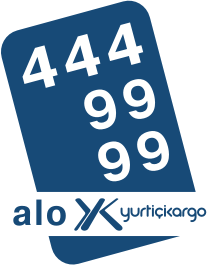
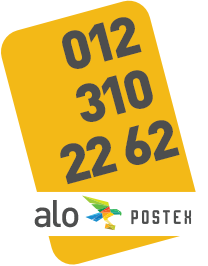
commit

diff --git a/resources/views/layouts/individual.blade.php b/resources/views/layouts/individual.blade.php
@@ -57,8 +57,8 @@
                     <div class="col-lg-9 col-md-10 col-sm-10 col-xs-2 col-lg-offset-1">
                         <div class="right-form">
                             <div class="contact-form">
-                                <a href="assets/login/Help.html">
-                                    <span>S.S.S.</span>
+                                <a >
+                                    <span>SUAL CAVAB</span>
                                 </a>
                             </div>
                                 <div class="member-info left-radius">
@@ -102,6 +102,10 @@
             <div id="page-content">
             <section class="middle-content">
             <!--Mobile Menu-->
+            
+            
+            
+            
             <nav>
               <div class="container-wrap">
                 <div class="container-wrap-content">
@@ -110,50 +114,47 @@
                     <div id="slidemenu" class="nav navbar-nav">
                       <ul class="depth-1">
                         <li>
-                          <a href="assets/login/index.html" class="title">Anasayfa</a>
+                          <a href="{{route('home')}}" class="title">Əsas səhifə</a>
                         </li>
                         <li>
-                          <a href="#" class="title">Gönderi İşlemleri</a>
+                          <a href="#" class="title">Bağlama əməliyyatları</a>
                           <a class="menu-toggle" href="#"></a>
                           <ul class="depth-2">
                             <li>
-                              <a href="{{route('shipping.sender')}}" class="title">Gönderi Yap</a>
+                              <a  class="title">Bağlama Göndər</a>
                             </li>
                             <li>
-                              <a href="CreateQuery.html" class="title">Gönderilerim</a>
+                              <a  class="title">Bağlamalarım</a>
                             </li>
                           </ul>
                         </li>
                         <li>
-                          <a href="Tracking.html" class="title">Kargom Nerede ?</a>
+                          <a  class="title">Bağlamalarım hardadır ?</a>
                         </li>
                         <li>
-                          <a href="#" class="title">İletişim & Şubeler</a>
+                          <a href="#" class="title">Əlaqə & Filiallar</a>
                           <a class="menu-toggle" href="#"></a>
                           <ul class="depth-2">
                             <li>
-                              <a href="assets/login/Contact/ContactUs.html" class="title">Bize Ulaşın</a>
+                              <a  class="title">Əlaqə</a>
                             </li>
                             <li>
-                              <a href="assets/login/Contact/SearchUnit.html" class="title">Şube Arama</a>
-                            </li>
-                            <li>
-                              <a href="assets/login/Contact/Support.html" class="title">Mesaj Gönder</a>
+                              <a  class="title">Filial Axtarışı</a>
                             </li>
                           </ul>
                         </li>
                         <li>
-                          <a href="assets/login/Reporting/CreateQuery.html" class="title">Raporlar</a>
+                          <a  class="title">Hesabatlar</a>
                         </li>
                         <li>
-                          <a href="#" class="title">Ayarlar & Tanımlar</a>
+                          <a href="#" class="title">Parametrlər</a>
                           <a class="menu-toggle" href="#"></a>
                           <ul class="depth-2">
                             <li>
-                              <a href="assets/login/Setting/UserInfo.html" class="title">Üyelik Bilgileri</a>
+                              <a  class="title">Üzvlük məlumatları</a>
                             </li>
                             <li>
-                              <a href="assets/login/Setting/AddressList.html" class="title">Adres Defterim</a>
+                              <a  class="title">Adres Dəftərim</a>
                             </li>
                           </ul>
                         </li>
@@ -164,6 +165,11 @@
                 </div>
               </div>
             </nav>
+
+
+
+
+
             <div class="banner subpage-banner">
               <div class="top-mask">
                 <img src="/assets/login/assets/img/top-mask.svg" alt=" " />
@@ -190,7 +196,7 @@
                           <div class="nav">
                             <ul class="depth-1">
                               <li>
-                                <a  class="title">Əsas səhifə</a>
+                                <a href="{{route('home')}}" class="title">Əsas səhifə</a>
                               </li>
                               <li>
                                 <a href="#" class="title">Bağlama əməliyyatları</a>
@@ -200,12 +206,12 @@
                                     <a  class="title">Bağlama Göndər</a>
                                   </li>
                                   <li>
-                                    <a href="CreateQuery.html" class="title">Bağlamalarım</a>
+                                    <a  class="title">Bağlamalarım</a>
                                   </li>
                                 </ul>
                               </li>
                               <li>
-                                <a href="Tracking.html" class="title">Bağlamalarım hardadır ?</a>
+                                <a  class="title">Bağlamalarım hardadır ?</a>
                               </li>
                               <li>
                                 <a href="#" class="title">Əlaqə & Filiallar</a>
@@ -395,20 +401,15 @@
           <div class="container-wrap-content">
             <div class="space left"></div>
             <div class="middle">
-              <div class="row footer-bottom">
-                <div class="col-lg-6 col-md-8 col-sm-10 copyright-wrap">
-                  <div class="copyright">
-                    <img src="/assets/login//assets/img/arikanli-holding.svg" alt="arikanli-holding" width="150" height="39" />
-                    <span> Yurtiçi Kargo bir Arıkanlı Holding kuruluşudur. <br /> Copyright © 2017 Yurtiçi Kargo. Bütün hakları saklıdır. </span>
-                  </div>
-                </div>
-                <div class="col-lg-2 col-md-2 col-sm-2  col-lg-offset-4 col-md-offset-2 designed-wrap">
-                  <div class="designed">
-                    <span>Designed by</span>
-                    <img src="/assets/login//assets/img/smartiks.svg" alt="smartiks" width="130" height="23" />
-                  </div>
-                </div>
-              </div>
+            <div class="row footer-bottom">
+                     <div class="col-lg-6 col-md-8 col-sm-10 copyright-wrap">
+                        <div class="copyright">
+                           <span>
+                           Copyright © 2022 Postex. Bütün hüquqları qorunur.
+                           </span>
+                        </div>
+                     </div>
+             </div>
             </div>
             <div class="space right"></div>
           </div>

diff --git a/resources/views/customer/register_individual.blade.php b/resources/views/customer/register_individual.blade.php
@@ -3,12 +3,12 @@
 
 
 
-<h3 class="slideTitle">Qeydiyyatdan keç</h3>
+<h3 class="slideTitle">Fərdi olaraq qeydiyyatdan keç</h3>
 <div class="breadcrumb-wrap">
    <div class="row">
       <div class="col-lg-12 col-md-12 col-sm-12 col-xs-12">
          <ul class="list-unstyled">
-            <li><a href="/assets/login/index.html">Əsas Səhifə</a></li>
+            <li><a href="{{route('home')}}">Əsas Səhifə</a></li>
             <li class="active"><a>Qeydiyyat</a></li>
          </ul>
       </div>
@@ -20,7 +20,7 @@
    </div>
    <div class="col-lg-6 col-md-6 col-sm-6 col-xs-12">
       <div class="form-group label-floating is-empty">
-         <label class="control-label" for="input-name">Adınız</label>
+         <label class="control-label" for="input-name">Ad</label>
          <input class="form-control all-radius" data-validate-type="required" tabindex="1" autocomplete="off" id="input-name" type="text" oninput="javascript: if (this.value.length > this.maxLength) this.value = this.value.slice(0, this.maxLength);" maxlength="30" minlength="3">
          <div class="tooltip-wrap">
             <a data-toggle="popover" data-content="Adınızı daxil edin. (ən az 2 hərf)">
@@ -37,7 +37,7 @@
    </div>
    <div class="col-lg-6 col-md-6 col-sm-6 col-xs-12">
       <div class="form-group label-floating is-empty">
-         <label class="control-label" for="input-surname">Soyadınız</label>
+         <label class="control-label" for="input-surname">Soyad</label>
          <input class="form-control all-radius" data-validate-type="required" tabindex="2" autocomplete="off" id="input-surname" type="text" oninput="javascript: if (this.value.length > this.maxLength) this.value = this.value.slice(0, this.maxLength);" maxlength="30" minlength="2">
          <div class="tooltip-wrap">
             <a data-toggle="popover" data-content="Soyadınızı daxil edin. (ən az 2 hərf)">
@@ -105,7 +105,7 @@
    </div>
    <div class="col-lg-6 col-md-6 col-sm-6 col-xs-12">
       <div class="form-group label-floating is-empty">
-         <label class="control-label" for="input-phone-number">MOBİL TEL</label>
+         <label class="control-label" for="input-phone-number">Mobil</label>
          <input class="form-control all-radius" data-validate-type="phone" tabindex="6" id="input-phone-number" oninput="javascript: if (this.value.length > this.maxLength) this.value = this.value.slice(0, this.maxLength);" maxlength="11" minlength="10" autocomplete="off" type="number">
          <div class="tooltip-wrap">
             <a data-toggle="popover" data-content="Mobil telefon nömrəsini 05XXXXXXXXX şəklində  10 xana  olaraq daxil edin.">

diff --git a/resources/views/layouts/corporate.blade.php b/resources/views/layouts/corporate.blade.php
@@ -130,7 +130,7 @@
                           </ul>
                         </li>
                         <li>
-                          <a href="Tracking.html" class="title">Bağlamalarım hardadır ?</a>
+                          <a  class="title">Bağlamalarım hardadır ?</a>
                         </li>
                         <li>
                           <a href="#" class="title">Əlaqə & Filiallar</a>
@@ -192,7 +192,7 @@
                           <div class="nav">
                             <ul class="depth-1">
                               <li>
-                                <a  class="title">Əsas səhifə</a>
+                                <a href="{{route('home')}}" class="title">Əsas səhifə</a>
                               </li>
                               <li>
                                 <a href="#" class="title">Bağlama əməliyyatları</a>
@@ -202,12 +202,12 @@
                                     <a  class="title">Bağlama Göndər</a>
                                   </li>
                                   <li>
-                                    <a href="CreateQuery.html" class="title">Bağlamalarım</a>
+                                    <a  class="title">Bağlamalarım</a>
                                   </li>
                                 </ul>
                               </li>
                               <li>
-                                <a href="Tracking.html" class="title">Bağlamalarım hardadır ?</a>
+                                <a  class="title">Bağlamalarım hardadır ?</a>
                               </li>
                               <li>
                                 <a href="#" class="title">Əlaqə & Filiallar</a>

diff --git a/resources/views/customer/forget_individual.blade.php b/resources/views/customer/forget_individual.blade.php
@@ -275,23 +275,15 @@
                <div class="container-wrap-content">
                   <div class="space left"></div>
                   <div class="middle">
-                     <div class="row footer-bottom">
-                        <div class="col-lg-6 col-md-8 col-sm-10 copyright-wrap">
-                           <div class="copyright">
-                              <img src="/assets/login/assets/img/arikanli-holding.svg" alt="arikanli-holding" width="150" height="39" />
-                              <span>
-                              Yurtiçi Kargo bir Arıkanlı Holding kuruluşudur.<br />
-                              Copyright © 2017 Yurtiçi Kargo. Bütün hakları saklıdır.
-                              </span>
-                           </div>
-                        </div>
-                        <div class="col-lg-2 col-md-2 col-sm-2  col-lg-offset-4 col-md-offset-2 designed-wrap">
-                           <div class="designed">
-                              <span>Designed by</span>
-                              <img src="/assets/login/assets/img/smartiks.svg" alt="smartiks" width="130" height="23" />
-                           </div>
+                  <div class="row footer-bottom">
+                     <div class="col-lg-6 col-md-8 col-sm-10 copyright-wrap">
+                        <div class="copyright">
+                           <span>
+                           Copyright © 2022 Postex. Bütün hüquqları qorunur.
+                           </span>
                         </div>
                      </div>
+                  </div>
                   </div>
                   <div class="space right"></div>
                </div>

diff --git a/resources/views/customer/register_corporate.blade.php b/resources/views/customer/register_corporate.blade.php
@@ -3,12 +3,12 @@
 @section('content')
 
                               <div class="container-small">
-                              <h3 class="slideTitle">Qeydiyyat</h3>
+                              <h3 class="slideTitle">Korporati̇v olaraq qeydiyyatdan keç</h3>
                               <div class="breadcrumb-wrap">
                                  <div class="row">
                                     <div class="col-lg-12 col-md-12 col-sm-12 col-xs-12">
                                        <ul class="list-unstyled">
-                                          <li><a >Əsas Səhifə</a></li>
+                                          <li><a href="{{route('home')}}" >Əsas Səhifə</a></li>
                                           <li class="active"><a>Qeydiyyat</a></li>
                                        </ul>
                                     </div>
@@ -16,7 +16,7 @@
                               </div>
                               <div class="sender-address-detail all-radius create-query" id="div-user-address-information">
                                  <div class="col-lg-12 col-md-12">
-                                    <h5 class="title-blue">Qeydiyyat Bilgiləri</h5>
+                                    <h5 class="title-blue">İstifadəçi məlumatları</h5>
                                  </div>
                                  <div class="col-lg-6 col-md-6 col-sm-6 col-xs-6">
                                     <div class="form-group label-floating is-empty">

diff --git a/resources/views/site/index.blade.php b/resources/views/site/index.blade.php
@@ -114,7 +114,7 @@
                                                             </div>
                                                         </div>
                                                         <div class="input-group">
-                                                            <button type="submit" id="home-price-calculation-button" class="btn all-radius">DAVAM ET</button>
+                                                            <button type="submit"  class="btn all-radius">DAVAM ET</button>
                                                         </div>
                                                     </div>
                                                 </div>
@@ -659,7 +659,7 @@
                     <div class="middle ">
                         <div class="row info ">
                             <div class="col-lg-3 col-md-3 col-sm-6 col-xs-12 center">
-                                <img src="assets/img/phone-yurtici.svg" class=" " alt=" " width="168 " height="25 " />
+                                <img src="assets/img/phone-postex.svg" class=" " alt=" " width="168 " height="25 " />
                             </div>
                             <div class="col-lg-3 col-md-3 col-sm-6 col-xs-12 center">
                                 <div class="center">
